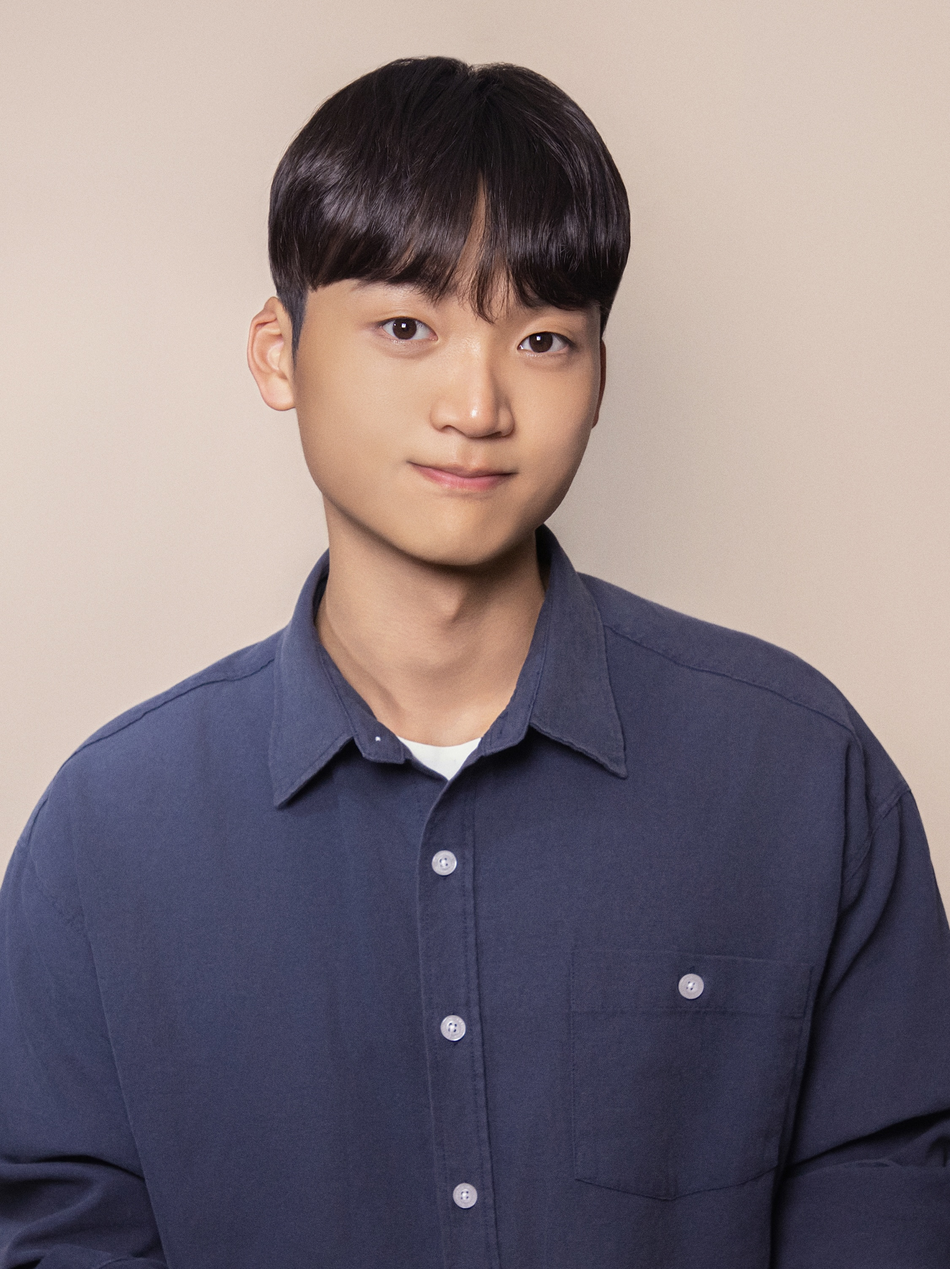
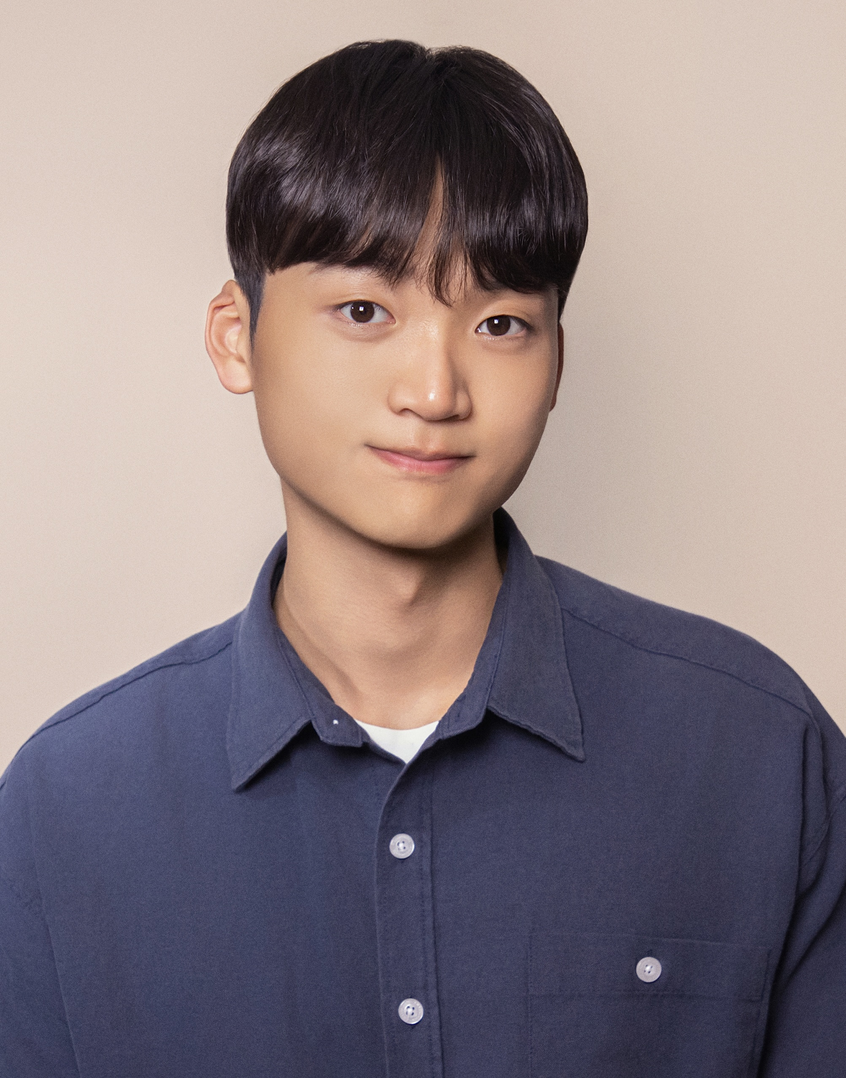
update internship

diff --git a/index.html b/index.html
@@ -53,7 +53,7 @@
 </td>
 
 <td style="padding:2.5%;width:35%;max-width:35%">
-  <img src="images/Profile_2026_original.jpg"
+  <img src="images/Profile_2026.jpg"
        style="width:100%;object-fit:cover;">
 </td>
 </tr>
@@ -110,6 +110,11 @@
 
 <h3>Research</h3>
 <ul>
+  <li>
+    Research Intern, <strong>LG AI Research</strong>, Seoul, Korea (2026.07 – Present)<br>
+    Bio Intelligence Lab, Causal Squad<br>
+  </li>
+  <br>
   <li>
     Research Intern, <strong>Causality Lab</strong>, <strong>Seoul National University</strong> (2024.09 – 2025.02)<br>
     Study on causal normalizing flows for time-series data<br>
